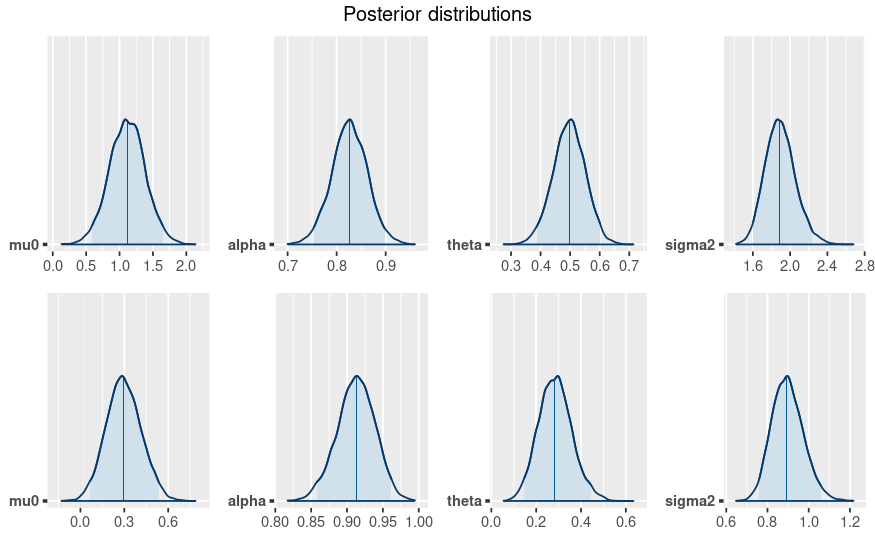
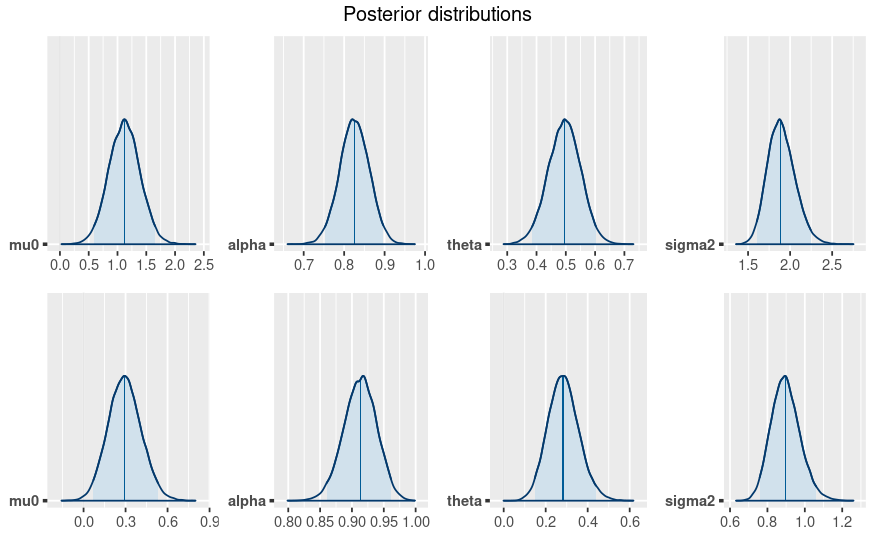
Report - ARMA

diff --git a/report/sections/4-ARMA.tex b/report/sections/4-ARMA.tex
@@ -1,27 +1,27 @@
-\section{ARMA}
+\section{Autoregressive Moving Average Model}
 \label{sec:ARMA}
-The Autoregressive Moving Average Model(ARMA) combines both the AR and MA models. The Autoregressive component involves regressing the variable based on its own previous values. The Moving Average component models the error term as a linear combination of both current and past error terms.
-
-The ARMA model of order $(p,q)$ can be formulated as:
+The Autoregressive Moving Average Model (ARMA) is obtained by merging the AR and MA models. \\
+Formally, the ARMA model of order $(p, q)$ is represented as follows:
 \begin{equation}
-    y_{t}=\mu_{0}+\epsilon_t +\sum^{p}_{i=1}\alpha_{i} y_{t-i} + \sum^{q}_{j=1}\theta{j} \epsilon_{t-j}
+    \label{eq:ARMA}
+    y_{t} = \mu_{0} + \sum^{p}_{i=1}\alpha_{i} y_{t-i} + \sum^{q}_{j=1}\theta_{j} \epsilon_{t-j} + \epsilon_t 
 \end{equation}
-where $\mu_{0}$ is the mean of the timeserie, $\epsilon_{t}, \epsilon_{t-1}, ..., \epsilon_{t-q}$ are the error terms, $\alpha_{i}$ and $\theta_{j}$ are the parameters of the model, and $y_{t-1}, y_{t-2}, ..., y_{t-p}$ are the past values.
-
-For our purpose we decided to implement only the ARMA(1,1) model, which can be rewritten in the following way:
-\begin{equation}
-    \label{ARMA_q1}
-    y_{t}=\mu_{0}+\epsilon_t +\alpha y_{t-1} + \theta \epsilon_{t-1} \qquad 
-    \epsilon_t \stackrel{iid}{\sim} \mathcal{N}(0,\sigma^2)
-\end{equation}
-and again we assume $\epsilon_{t}$ to be independent and identical distributed variables coming from a normal distribution with mean $0$ and variance $\sigma^2$.
+where $p$ is the number of past values considered in the AR part, $q$ is the number of past errors considered in the MA part, $\mu_{0}$ is a constant, $\alpha_{i}$ and $\theta_{j}$ are the model parameters, $y_{t-1}, y_{t-2}, ..., y_{t-p}$ are the past values, and $\epsilon_{t}, \epsilon_{t-1}, ..., \epsilon_{t-q}$ are the error terms. \\
+For our analysis, we decided to implement only the ARMA(1,1) model.
 \subsection*{ARMA(1,1)}
-Given the equation \ref{ARMA_q1} the likelihood of the ARMA model can be expressed as:
+The ARMA(1,1) model is defined as:
 \begin{equation}
-    y_{t}|\mu_{0},\alpha,\theta,\sigma^2,y_{t-1},\epsilon_{t-1}\sim \mathcal{N}(\mu_{0} + \alpha y_{t-1} + \theta \epsilon_{t-1}, \sigma^2)
+    \label{eq:ARMA1,1}
+    y_{t} = \mu_{0} + \alpha y_{t-1} + \theta \epsilon_{t-1} + \epsilon_t
 \end{equation}
-and we selected the following priors:
+In our case study, we assume that $\epsilon_t$ are independent and identically distributed variables from a normal distribution with mean $0$ and variance $\sigma^2$, i.e., $\epsilon_t \stackrel{iid}{\sim} \mathcal{N}(0,\sigma^2)$, leading to the following likelihood:
 \begin{equation}
+    \label{eq:ARMA1,1_likelihood}
+    y_{t}|\mu_{0},\alpha,\theta,\sigma^2,y_{t-1},\epsilon_{t-1} \sim \mathcal{N}(\mu_{0} + \alpha y_{t-1} + \theta \epsilon_{t-1}, \sigma^2)
+\end{equation}
+For the priors, we chose:
+\begin{equation}
+    \label{eq:ARMA1,1_priors}
     \begin{split}
         \mu_0 \sim \mathcal{N}(0.0, 10000) \\
         \tau = 1 / \sigma^2 \sim \mathcal{G}(2, 0.1) \\
@@ -29,24 +29,45 @@ and we selected the following priors:
         \theta \sim \mathcal{U}(-1.0, 1.0)
     \end{split}
 \end{equation}
-such that $\mu_{0}$ and $\sigma^2$ have uninformative distributions, while $\alpha$ adheres to the stationary constraint for the AR part.
-
-We produced the traceplots and autocorrelation plots to verify the validity of our assumptions and we obtained the following posteriors for the parameters: \\
+We selected uninformative priors for all the parameters: $\mu_{0}$, $\sigma^2$, $\alpha$, and $\theta$. \\
+Running the JAGS code to implement the ARMA(1,1) model for GDP and CPIAUCSL, we obtained the posterior distributions shown in Figure \ref{fig:ARMA1,1_posteriors}, with the corresponding means and 95\% credible intervals reported in Table \ref{tab:ARMA1,1_posteriors}.
 \begin{figure}[H]
     \centering
-    \includegraphics[width=\textwidth]{images/4-ARMA/posteriors.png}
-    \caption{The image displays the posterior distributions of the parameters for the ARMA(1,1) model. The top line corresponds to the model used for GDP, while the bottom line corresponds to the model used for inflation.}
-    \label{fig:ARMA_posteriors}
+    \includegraphics[width=0.8\textwidth]{images/4-ARMA/posteriors.png}
+    \caption{Posterior distributions of the parameters for the ARMA(1,1) models. The top line corresponds to the model used for GDP, while the bottom line corresponds to the model used for CPIAUCSL.}
+    \label{fig:ARMA1,1_posteriors}
 \end{figure}
-Finally we plotted the in-sample and out-of-sample predictions with credible intervals and we compared it with the true data: \\   
+\begin{table}[H]
+    \centering
+    \begin{tabular}{|c|c|c|c|}
+        \hline
+        \textbf{Model target variable } & \textbf{Parameter } & \textbf{Posterior Mean } & \textbf{95\% Credible Interval } \\
+        \hline
+        GDP      & $\mu_0$    & 1.1207710 & (0.59421700, 1.6538357) \\
+        GDP      & $\alpha$   & 0.8254802 & (0.75268077, 0.8966752) \\
+        GDP      & $\theta$   & 0.4952213 & (0.38504175, 0.6024967) \\
+        GDP      & $\sigma^2$ & 1.8977382 & (1.60426034, 2.2438487) \\
+        CPIAUCSL & $\mu_0$    & 0.2941814 & (0.07023124, 0.5314746) \\
+        CPIAUCSL & $\alpha$   & 0.9127231 & (0.86025773, 0.9612327) \\
+        CPIAUCSL & $\theta$   & 0.2846962 & (0.14830563, 0.4392942) \\
+        CPIAUCSL & $\sigma^2$ & 0.8976673 & (0.75858882, 1.0607612) \\
+        \hline
+    \end{tabular}
+    \caption{Posterior means and 95\% credible intervals for the parameters of the ARMA(1,1) models.}
+    \label{tab:ARMA1,1_posteriors}
+\end{table}
+Plotting the in-sample and out-of-sample predictions with 95\% credible intervals and comparing them with the actual data, we obtained the results shown in Figures \ref{fig:ARMA1,1_gdp_prediction} and \ref{fig:ARMA1,1_infl_prediction}. \\
+The out-of-sample predictions for GDP and CPIAUCSL effectively capture the initial data trends. Nevertheless, the ARMA(1,1) model fails to anticipate the significant impact of the COVID-19 pandemic, which is completely understandable.
 \begin{figure}[H]
     \centering
     \includegraphics[width=0.75\textwidth]{images/4-ARMA/gdp_prediction.png}
-    \label{fig:ARMA_first}
-\end{figure} 
+    \caption{In-sample and out-of-sample predictions for the GDP using the ARMA(1,1) model.}
+    \label{fig:ARMA1,1_gdp_prediction}
+\end{figure}
 \begin{figure}[H]
     \centering
     \includegraphics[width=0.75\textwidth]{images/4-ARMA/infl_prediction.png}
-    \label{fig:ARMA_second}
-\end{figure} 
-In the Appendix it is possible to find a comparison between our model the ARIMA function used to verify the model's correctness.
+    \caption{In-sample and out-of-sample predictions for the CPIAUCSL using the ARMA(1,1) model.}
+    \label{fig:ARMA1,1_infl_prediction}
+\end{figure}
+Finally, examining the trace plots and autocorrelation plots, we found no significant issues, and comparing our model with the one obtained using the ARIMA function, we observed that the two models have similar results. Results are provided in the Appendix.
